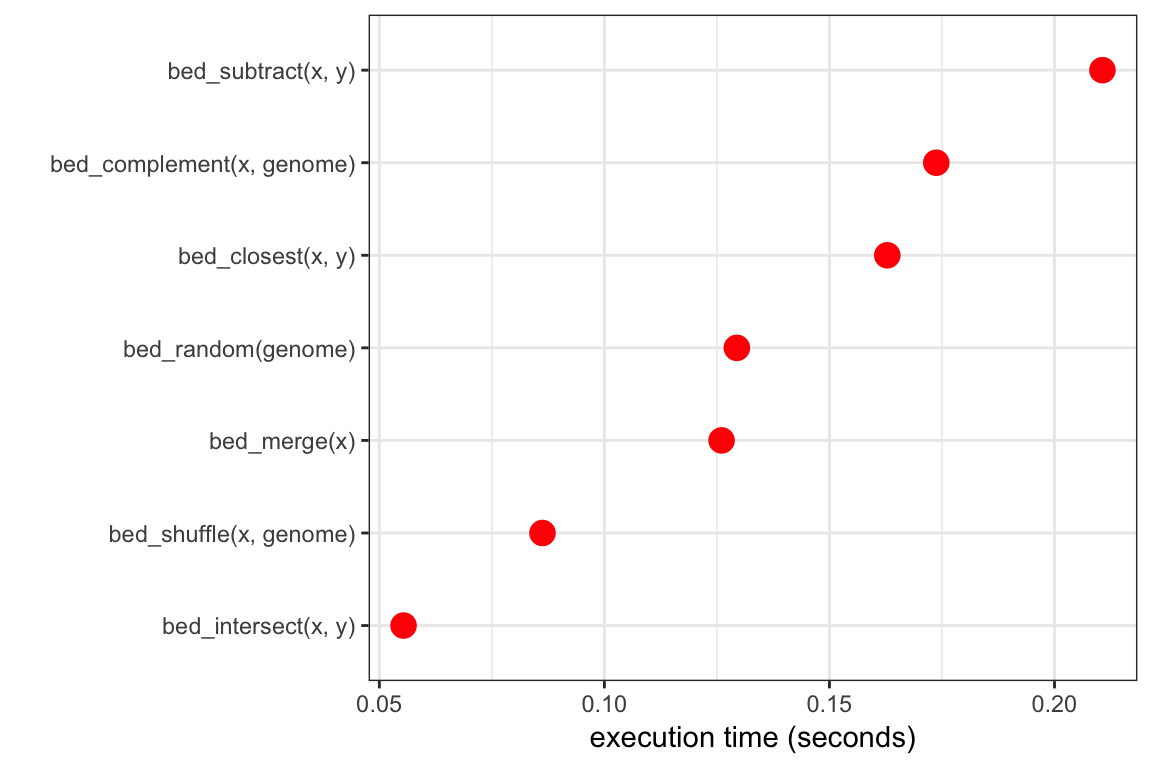
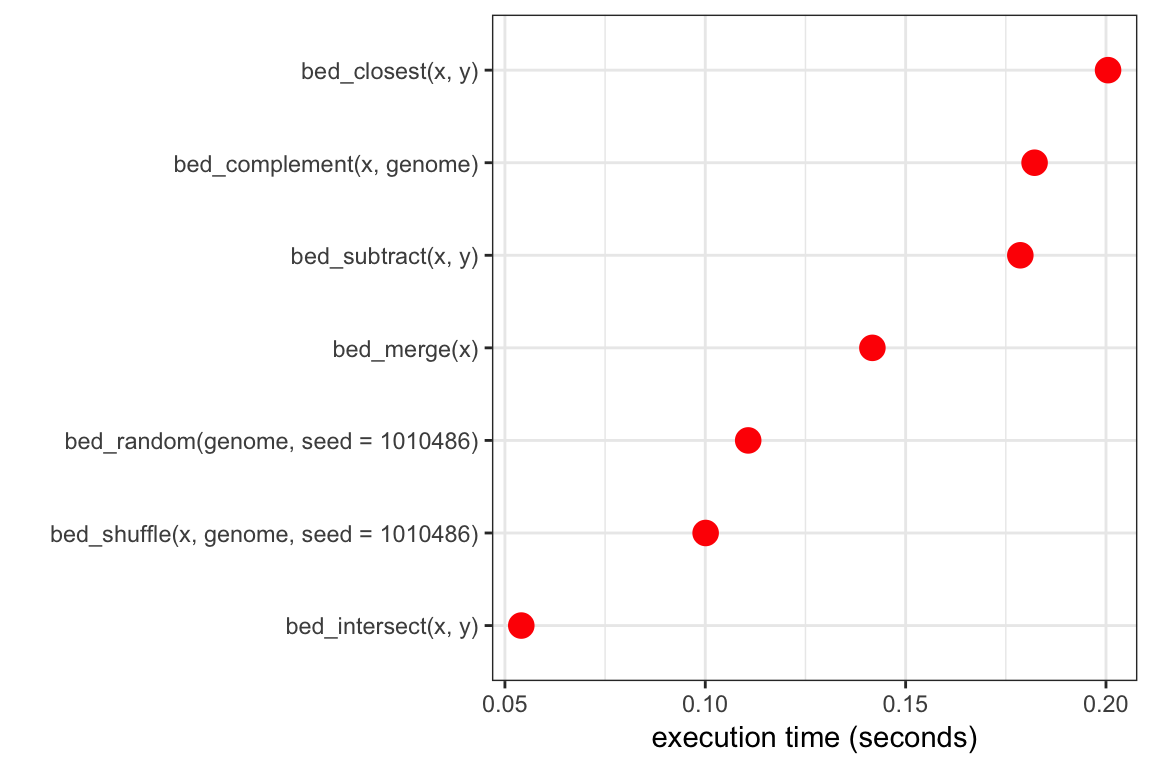
add seeds to tests and vignettes for reproducibility
- closes #183, closes #185 
- re-pkg with new vignettes

diff --git a/docs/articles/valr.html b/docs/articles/valr.html
@@ -71,7 +71,7 @@
     <div class="page-header toc-ignore">
       <h1>valr overview</h1>
             
-            <h4 class="date">2017-03-07</h4>
+            <h4 class="date">2017-03-08</h4>
           </div>
 
     
@@ -137,13 +137,11 @@ if(<span class="kw">require</span>(RMySQL)) {
   ucsc &lt;-<span class="st"> </span><span class="kw"><a href="../reference/db.html">db_ucsc</a></span>(<span class="st">'hg38'</span>)
   <span class="kw">tbl</span>(ucsc, <span class="st">'refGene'</span>)
 }
-<span class="co">#&gt; Loading required package: RMySQL</span>
-<span class="co">#&gt; Loading required package: DBI</span>
 <span class="co">#&gt; Source:   query [?? x 16]</span>
 <span class="co">#&gt; Database: mysql 5.6.26-log [genomep@genome-mysql.cse.ucsc.edu:/hg38]</span>
 <span class="co">#&gt; </span>
 <span class="co">#&gt;      bin         name chrom strand  txStart    txEnd cdsStart   cdsEnd</span>
-<span class="co">#&gt;    &lt;dbl&gt;        &lt;chr&gt; &lt;chr&gt;  &lt;chr&gt;    &lt;dbl&gt;    &lt;dbl&gt;    &lt;dbl&gt;    &lt;dbl&gt;</span>
+<span class="co">#&gt;    &lt;int&gt;        &lt;chr&gt; &lt;chr&gt;  &lt;chr&gt;    &lt;int&gt;    &lt;int&gt;    &lt;int&gt;    &lt;int&gt;</span>
 <span class="co">#&gt; 1    585    NR_046018  chr1      +    11873    14409    14409    14409</span>
 <span class="co">#&gt; 2    585    NR_024540  chr1      -    14361    29370    29370    29370</span>
 <span class="co">#&gt; 3   1078    NR_104148  chr7      + 64666082 64687830 64687830 64687830</span>
@@ -154,9 +152,9 @@ if(<span class="kw">require</span>(RMySQL)) {
 <span class="co">#&gt; 8    585    NR_026820  chr1      -    34610    36081    36081    36081</span>
 <span class="co">#&gt; 9    585    NR_026822  chr1      -    34610    36081    36081    36081</span>
 <span class="co">#&gt; 10   585 NM_001005484  chr1      +    69090    70008    69090    70008</span>
-<span class="co">#&gt; # ... with more rows, and 8 more variables: exonCount &lt;dbl&gt;,</span>
-<span class="co">#&gt; #   exonStarts &lt;chr&gt;, exonEnds &lt;chr&gt;, score &lt;int&gt;, name2 &lt;chr&gt;,</span>
-<span class="co">#&gt; #   cdsStartStat &lt;chr&gt;, cdsEndStat &lt;chr&gt;, exonFrames &lt;chr&gt;</span></code></pre></div>
+<span class="co">#&gt; # ... with more rows, and 8 more variables: exonCount &lt;int&gt;,</span>
+<span class="co">#&gt; #   exonStarts &lt;list&gt;, exonEnds &lt;list&gt;, score &lt;int&gt;, name2 &lt;chr&gt;,</span>
+<span class="co">#&gt; #   cdsStartStat &lt;chr&gt;, cdsEndStat &lt;chr&gt;, exonFrames &lt;list&gt;</span></code></pre></div>
 </div>
 <div id="visual-documentation" class="section level3">
 <h3 class="hasAnchor">
@@ -346,7 +344,7 @@ repeats &lt;-<span class="st"> </span><span class="kw"><a href="../reference/rea
 genome &lt;-<span class="st"> </span><span class="kw"><a href="../reference/read_genome.html">read_genome</a></span>(<span class="kw"><a href="../reference/valr_example.html">valr_example</a></span>(<span class="st">'hg19.chrom.sizes.gz'</span>))
 
 shuffle_intervals &lt;-<span class="st"> </span>function(n, .data, genome) {
-  <span class="kw">replicate</span>(n, <span class="kw"><a href="../reference/bed_shuffle.html">bed_shuffle</a></span>(.data, genome), <span class="dt">simplify =</span> <span class="ot">FALSE</span>) %&gt;%
+  <span class="kw">replicate</span>(n, <span class="kw"><a href="../reference/bed_shuffle.html">bed_shuffle</a></span>(.data, genome, <span class="dt">seed =</span> <span class="dv">1010486</span>), <span class="dt">simplify =</span> <span class="ot">FALSE</span>) %&gt;%
 <span class="st">    </span><span class="kw">bind_rows</span>(<span class="dt">.id =</span> <span class="st">'rep'</span>) %&gt;%
 <span class="st">    </span><span class="kw">group_by</span>(rep) %&gt;%<span class="st"> </span><span class="kw">nest</span>()
 }
@@ -360,16 +358,16 @@ shuffled
 <span class="co">#&gt; # A tibble: 100 × 3</span>
 <span class="co">#&gt;      rep                  data      jaccard</span>
 <span class="co">#&gt;    &lt;chr&gt;                &lt;list&gt;        &lt;dbl&gt;</span>
-<span class="co">#&gt; 1      1 &lt;tibble [10,000 × 6]&gt; 0.0003448034</span>
-<span class="co">#&gt; 2      2 &lt;tibble [10,000 × 6]&gt; 0.0003879722</span>
-<span class="co">#&gt; 3      3 &lt;tibble [10,000 × 6]&gt; 0.0001653521</span>
-<span class="co">#&gt; 4      4 &lt;tibble [10,000 × 6]&gt; 0.0002541404</span>
-<span class="co">#&gt; 5      5 &lt;tibble [10,000 × 6]&gt; 0.0008018792</span>
-<span class="co">#&gt; 6      6 &lt;tibble [10,000 × 6]&gt; 0.0005125422</span>
-<span class="co">#&gt; 7      7 &lt;tibble [10,000 × 6]&gt; 0.0001806308</span>
-<span class="co">#&gt; 8      8 &lt;tibble [10,000 × 6]&gt; 0.0004311447</span>
-<span class="co">#&gt; 9      9 &lt;tibble [10,000 × 6]&gt; 0.0002303932</span>
-<span class="co">#&gt; 10    10 &lt;tibble [10,000 × 6]&gt; 0.0003819820</span>
+<span class="co">#&gt; 1      1 &lt;tibble [10,000 × 6]&gt; 0.0004354828</span>
+<span class="co">#&gt; 2      2 &lt;tibble [10,000 × 6]&gt; 0.0004354828</span>
+<span class="co">#&gt; 3      3 &lt;tibble [10,000 × 6]&gt; 0.0004354828</span>
+<span class="co">#&gt; 4      4 &lt;tibble [10,000 × 6]&gt; 0.0004354828</span>
+<span class="co">#&gt; 5      5 &lt;tibble [10,000 × 6]&gt; 0.0004354828</span>
+<span class="co">#&gt; 6      6 &lt;tibble [10,000 × 6]&gt; 0.0004354828</span>
+<span class="co">#&gt; 7      7 &lt;tibble [10,000 × 6]&gt; 0.0004354828</span>
+<span class="co">#&gt; 8      8 &lt;tibble [10,000 × 6]&gt; 0.0004354828</span>
+<span class="co">#&gt; 9      9 &lt;tibble [10,000 × 6]&gt; 0.0004354828</span>
+<span class="co">#&gt; 10    10 &lt;tibble [10,000 × 6]&gt; 0.0004354828</span>
 <span class="co">#&gt; # ... with 90 more rows</span></code></pre></div>
 </div>
 </div>

diff --git a/docs/articles/interval-stats.html b/docs/articles/interval-stats.html
@@ -71,7 +71,7 @@
     <div class="page-header toc-ignore">
       <h1>Interval statistics</h1>
             
-            <h4 class="date">March 07 2017</h4>
+            <h4 class="date">March 08 2017</h4>
           </div>
 
     
@@ -150,7 +150,7 @@ obs_stats
 <span class="co">#&gt; 10  (AAACAA)n reldist  &lt;tibble [1 × 1]&gt;   obs</span>
 <span class="co">#&gt; # ... with 2,096 more rows</span></code></pre></div>
 <p>And the same is done for a set of shuffled group of data. <code><a href="../reference/bed_shuffle.html">bed_shuffle()</a></code> is used to shuffle coordinates of the repeats within each chromosome (i.e., the coordinates change, but the chromosome stays the same.)</p>
-<div class="sourceCode"><pre class="sourceCode r"><code class="sourceCode r">shfs &lt;-<span class="st"> </span><span class="kw"><a href="../reference/bed_shuffle.html">bed_shuffle</a></span>(rpts, genome, <span class="dt">within =</span> <span class="ot">TRUE</span>)
+<div class="sourceCode"><pre class="sourceCode r"><code class="sourceCode r">shfs &lt;-<span class="st"> </span><span class="kw"><a href="../reference/bed_shuffle.html">bed_shuffle</a></span>(rpts, genome, <span class="dt">within =</span> <span class="ot">TRUE</span>, <span class="dt">seed =</span> <span class="dv">1010486</span>)
 shf_stats &lt;-<span class="st"> </span><span class="kw">distance_stats</span>(shfs, tss, genome, <span class="st">'name'</span>, <span class="st">'shuf'</span>)</code></pre></div>
 <p>Now we can bind the observed and shuffled data together, and do some tidying to put the data into a format appropriate for a statistical test. This involves:</p>
 <ol style="list-style-type: decimal">
@@ -169,22 +169,22 @@ shf_stats &lt;-<span class="st"> </span><span class="kw">distance_stats</span>(s
 <span class="st">  </span><span class="kw">na.omit</span>()
 
 res
-<span class="co">#&gt; Source: local data frame [16,783 x 5]</span>
-<span class="co">#&gt; Groups: name, stat [1,917]</span>
+<span class="co">#&gt; Source: local data frame [16,659 x 5]</span>
+<span class="co">#&gt; Groups: name, stat [1,903]</span>
 <span class="co">#&gt; </span>
 <span class="co">#&gt;     name    stat   .id     obs     shuf</span>
 <span class="co">#&gt;    &lt;chr&gt;   &lt;chr&gt; &lt;int&gt;   &lt;dbl&gt;    &lt;dbl&gt;</span>
-<span class="co">#&gt; 1   (A)n absdist     1 5120782 16132005</span>
-<span class="co">#&gt; 2   (A)n absdist     2  226476 15814356</span>
-<span class="co">#&gt; 3   (A)n absdist     3   31241 15796544</span>
-<span class="co">#&gt; 4   (A)n absdist     4    8931 13710527</span>
-<span class="co">#&gt; 5   (A)n absdist     5   41316 13199818</span>
-<span class="co">#&gt; 6   (A)n absdist     6   22519 11992550</span>
-<span class="co">#&gt; 7   (A)n absdist     7   15173  9489576</span>
-<span class="co">#&gt; 8   (A)n absdist     8   21985  7551954</span>
-<span class="co">#&gt; 9   (A)n absdist     9   13457  6311562</span>
-<span class="co">#&gt; 10  (A)n absdist    10  134007  5127374</span>
-<span class="co">#&gt; # ... with 16,773 more rows</span></code></pre></div>
+<span class="co">#&gt; 1   (A)n absdist     1 5120782 12846274</span>
+<span class="co">#&gt; 2   (A)n absdist     2  226476 12729092</span>
+<span class="co">#&gt; 3   (A)n absdist     3   31241  8239065</span>
+<span class="co">#&gt; 4   (A)n absdist     4    8931  6929891</span>
+<span class="co">#&gt; 5   (A)n absdist     5   41316  5407516</span>
+<span class="co">#&gt; 6   (A)n absdist     6   22519  4173195</span>
+<span class="co">#&gt; 7   (A)n absdist     7   15173  3611447</span>
+<span class="co">#&gt; 8   (A)n absdist     8   21985  3233777</span>
+<span class="co">#&gt; 9   (A)n absdist     9   13457   130009</span>
+<span class="co">#&gt; 10  (A)n absdist    10  134007     3775</span>
+<span class="co">#&gt; # ... with 16,649 more rows</span></code></pre></div>
 <p>Now that the data are formatted, we can use <code>ks.test()</code> to determine whether there are significant differences between the observed and shuffled data for each group. <code>broom::tidy()</code> is used to reformat the results of each test into a <code>data_frame</code>, and the results of each test are <code>gather</code>ed to into a <code>type</code> column for each test type.</p>
 <div class="sourceCode"><pre class="sourceCode r"><code class="sourceCode r"><span class="kw">library</span>(broom)
 

diff --git a/docs/reference/valr_example.html b/docs/reference/valr_example.html
@@ -106,7 +106,7 @@
     
 
     <h2 class="hasAnchor" id="examples"><a class="anchor" href="#examples"></a>Examples</h2>
-    <pre class="examples"><div class='input'><span class='fu'>valr_example</span>(<span class='st'>'hg19.chrom.sizes.gz'</span>)</div><div class='output co'>#&gt; [1] &quot;/Users/kriemo/src/rnabioco/valr/inst/extdata/hg19.chrom.sizes.gz&quot;</div><div class='input'>
+    <pre class="examples"><div class='input'><span class='fu'>valr_example</span>(<span class='st'>'hg19.chrom.sizes.gz'</span>)</div><div class='output co'>#&gt; [1] &quot;/Users/austingillen/source/valr/inst/extdata/hg19.chrom.sizes.gz&quot;</div><div class='input'>
 </div></pre>
   </div>
   <div class="col-md-3 hidden-xs hidden-sm" id="sidebar">
